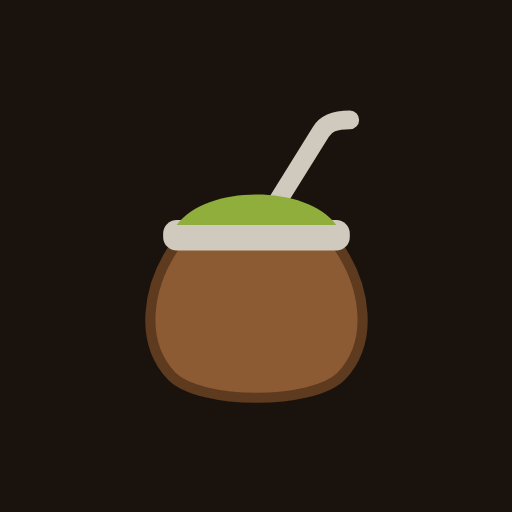
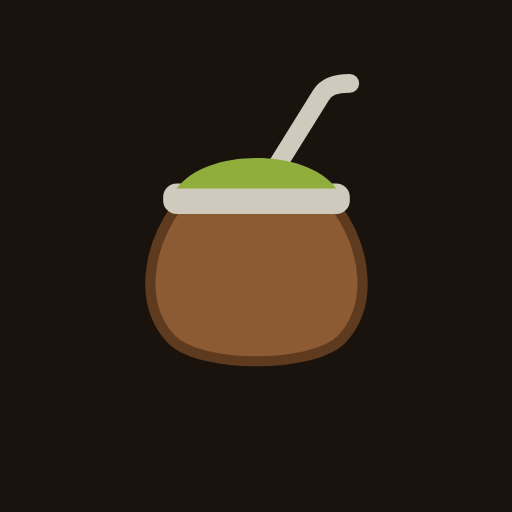
Auditoría, publicación compilada, app instalable, votos en admin y nav de celular
- Nav del celular rediseñado: logo y Cuenta arriba, las 7 secciones en una cápsula
  de partes iguales; la sección actual se ensancha y muestra su nombre.
- Íconos de la app con el cuerpo del mate centrado a la vista.

Changed region(s): [[0.2812, 0.125, 0.7188, 0.8125]]

diff --git a/index.html b/index.html
@@ -30,26 +30,26 @@
 <link rel="preconnect" href="https://fonts.gstatic.com" crossorigin>
 <link rel="preload" as="style" href="https://fonts.googleapis.com/css2?family=DM+Mono:wght@400;500&family=Figtree:wght@400;500;600;700&family=Newsreader:ital,opsz,wght@0,6..72,400..600;1,6..72,400..600&display=swap" onload="this.onload=null;this.rel='stylesheet'">
 <noscript><link rel="stylesheet" href="https://fonts.googleapis.com/css2?family=DM+Mono:wght@400;500&family=Figtree:wght@400;500;600;700&family=Newsreader:ital,opsz,wght@0,6..72,400..600;1,6..72,400..600&display=swap"></noscript>
-<link rel="stylesheet" href="css/estilos.css?v=20261017-49">
-<script defer src="js/datos.js?v=20261017-49"></script>
-<script defer src="js/lecciones.js?v=20261017-49"></script>
-<script defer src="js/utilidades.js?v=20261017-49"></script>
-<script defer src="js/almacen.js?v=20261017-49"></script>
-<script defer src="js/estadisticas.js?v=20261017-49"></script>
-<script defer src="js/config.js?v=20261017-49"></script>
-<script defer src="js/base.js?v=20261017-49"></script>
-<script defer src="js/vistas/comunes.js?v=20261017-49"></script>
-<script defer src="js/vistas/hoy.js?v=20261017-49"></script>
-<script defer src="js/vistas/archivo.js?v=20261017-49"></script>
-<script defer src="js/vistas/aprender.js?v=20261017-49"></script>
-<script defer src="js/vistas/estadisticas.js?v=20261017-49"></script>
-<script defer src="js/vistas/clasificacion.js?v=20261017-49"></script>
-<script defer src="js/vistas/grupos.js?v=20261017-49"></script>
-<script defer src="js/vistas/enviar.js?v=20261017-49"></script>
-<script defer src="js/vistas/cuenta.js?v=20261017-49"></script>
-<script defer src="js/vistas/admin.js?v=20261017-49"></script>
-<script defer src="js/juego.js?v=20261017-49"></script>
-<script defer src="js/main.js?v=20261017-49"></script>
+<link rel="stylesheet" href="css/estilos.css?v=20261017-50">
+<script defer src="js/datos.js?v=20261017-50"></script>
+<script defer src="js/lecciones.js?v=20261017-50"></script>
+<script defer src="js/utilidades.js?v=20261017-50"></script>
+<script defer src="js/almacen.js?v=20261017-50"></script>
+<script defer src="js/estadisticas.js?v=20261017-50"></script>
+<script defer src="js/config.js?v=20261017-50"></script>
+<script defer src="js/base.js?v=20261017-50"></script>
+<script defer src="js/vistas/comunes.js?v=20261017-50"></script>
+<script defer src="js/vistas/hoy.js?v=20261017-50"></script>
+<script defer src="js/vistas/archivo.js?v=20261017-50"></script>
+<script defer src="js/vistas/aprender.js?v=20261017-50"></script>
+<script defer src="js/vistas/estadisticas.js?v=20261017-50"></script>
+<script defer src="js/vistas/clasificacion.js?v=20261017-50"></script>
+<script defer src="js/vistas/grupos.js?v=20261017-50"></script>
+<script defer src="js/vistas/enviar.js?v=20261017-50"></script>
+<script defer src="js/vistas/cuenta.js?v=20261017-50"></script>
+<script defer src="js/vistas/admin.js?v=20261017-50"></script>
+<script defer src="js/juego.js?v=20261017-50"></script>
+<script defer src="js/main.js?v=20261017-50"></script>
 </head>
 <body>
 <div id="splash" class="splash" role="status" aria-label="Cargando"><svg class="ld-mate" viewBox="8 -7 100.4 96" aria-hidden="true"><g class="ld-tm"><g transform="translate(15.48 28.45)"><path class="ld-tm-h" d="M-5.5 -28.4h-2.4a1.4 1.4 0 0 0-1.4 1.4V-15.6"/><rect class="ld-tb" x="-5.5" y="-30.4" width="11" height="30.4" rx="1.8"/><path class="ld-tl" d="M-5.5 -2.2h11"/><rect class="ld-tn" x="-5" y="-32.2" width="10" height="2.2" rx=".6"/><rect class="ld-tn" x="-4.3" y="-33.8" width="8.6" height="1.9" rx=".5"/><rect class="ld-tc" x="-4.8" y="-37.4" width="9.6" height="3.8" rx=".8"/><path class="ld-tl" d="M-2.6 -36.8v2.6M0 -36.8v2.6M2.6 -36.8v2.6"/><path class="ld-tbt" d="M.6 -37.6 4.4 -39.8"/></g></g><g transform="translate(42.2 21.5) scale(.8)"><path class="ld-cal" d="M10.5 18.5C7 23.5 6.2 30 10 34c3.4 3.4 16.6 3.4 20 0 3.8-4 3-10.5-.5-15.5z"/><rect class="ld-vir" x="9" y="15.6" width="22" height="3.6" rx="1.6"/><path class="ld-bom" d="M21.5 15 27.6 5.2c.6-1 1.6-1.4 3.4-1.4"/><path class="ld-yer" d="M10.6 16.2C14 11.4 26 11.4 29.4 16.2z"/><path class="ld-vap" d="M14 11c-1.6-1.7 1.6-3.4 0-5.1"/><path class="ld-vap v2" d="M18 11c-1.6-1.7 1.6-3.4 0-5.1"/></g><g class="ld-agw"><path class="ld-ag" pathLength="1" d="M52.56 13.33c1.5.9 2.4 3.1 2.5 7L55 32"/></g><ellipse class="ld-sp" cx="55" cy="32.2" rx="2.6" ry=".8"/><ellipse class="ld-sp s2" cx="55" cy="32.2" rx="2.6" ry=".8"/></svg></div>

diff --git a/css/estilos.css b/css/estilos.css
@@ -463,21 +463,25 @@ img.av{display:block;background:var(--surface-2)}
 .splash.out.go{background-color:transparent;pointer-events:none;transition:background-color .35s ease}
 .splash.out.go .ld-mate{opacity:0;transition:opacity .25s ease .12s}
 @media (prefers-reduced-motion:reduce){.splash.out.go,.splash.out.go .ld-mate{transition:none}}
-/* En el celular el nav muestra solo íconos; la sección actual también lleva su nombre. Los nombres ocultos siguen para lectores de pantalla */
+/* Nav en el celular: arriba el logo y Cuenta (sola a la derecha); abajo las 7 secciones en una cápsula de partes iguales.
+   La sección actual se ensancha y muestra su nombre; las demás quedan con el ícono. Los nombres plegados siguen para lectores de pantalla */
 @media (max-width:560px){
-  .bar .wrap{padding-left:max(8px,env(safe-area-inset-left,0px));padding-right:max(8px,env(safe-area-inset-right,0px))}
-  nav{gap:0}.nav-mid{gap:0}
-  .tab{padding:9px 7px;font-size:14px;gap:0}
-  /* el nombre se despliega y la burbuja aparece con un pop; los demás íconos se corren solos. Los nombres plegados siguen para lectores de pantalla */
-  /* el nombre anterior se pliega rápido y el nuevo se despliega apenas después: nunca están los dos abiertos, así Cuenta no se corre */
-  .tab span{display:inline-block;max-width:0;opacity:0;overflow:hidden;margin-left:0;transition:max-width .22s cubic-bezier(.4,0,.2,1),opacity .15s ease,margin-left .22s cubic-bezier(.4,0,.2,1)}
-  .tab[aria-current="page"] span{max-width:100px;opacity:1;margin-left:6px;transition:max-width .45s cubic-bezier(.3,.7,.3,1) .12s,opacity .3s ease .2s,margin-left .45s cubic-bezier(.3,.7,.3,1) .12s}
-  .tab[aria-current="page"]{animation:nav-pop .5s cubic-bezier(.3,1.2,.5,1)}
+  .bar .wrap{position:relative;align-items:stretch;gap:8px;padding:8px max(10px,env(safe-area-inset-right,0px)) 10px max(10px,env(safe-area-inset-left,0px))}
+  .brand{align-self:flex-start;gap:9px;padding:4px 2px}
+  .brand .mate{width:30px;height:30px}
+  .brand .nm{font-size:19px}
+  nav{display:block;width:100%;overflow:visible}
+  .nav-mid{display:flex;width:100%;gap:0;padding:4px;border:1px solid var(--line);border-radius:999px;background:var(--surface)}
   .sep{display:none}
-  nav>.tab[data-v="cuenta"]{margin-left:4px}
+  .tab{gap:0;justify-content:center;padding:9px 0;font-size:14px}
+  .nav-mid .tab{flex:1 1 0;min-width:0;transition:flex-grow .45s cubic-bezier(.3,.7,.3,1),color .22s ease,background-color .22s ease}
+  .nav-mid .tab[aria-current="page"]{flex-grow:2.6}
+  .tab span{display:inline-block;max-width:0;opacity:0;overflow:hidden;margin-left:0;transition:max-width .22s cubic-bezier(.4,0,.2,1),opacity .15s ease,margin-left .22s cubic-bezier(.4,0,.2,1)}
+  .tab[aria-current="page"] span{max-width:100px;opacity:1;margin-left:6px;transition:max-width .45s cubic-bezier(.3,.7,.3,1) .1s,opacity .3s ease .18s,margin-left .45s cubic-bezier(.3,.7,.3,1) .1s}
+  /* Cuenta: arriba a la derecha, a la altura del logo; muestra su nombre solo cuando estás ahí */
+  nav>.tab[data-v="cuenta"]{position:absolute;top:8px;right:max(10px,env(safe-area-inset-right,0px));margin:0;padding:8px 10px}
 }
-@keyframes nav-pop{from{transform:scale(.92)}}
-@media (prefers-reduced-motion:reduce){.tab span,.tab[aria-current="page"] span{transition:none}.tab[aria-current="page"]{animation:none}}
+@media (prefers-reduced-motion:reduce){.tab span,.tab[aria-current="page"] span,.nav-mid .tab{transition:none}}
 .arow .st{min-width:96px;text-align:center}
 /* Votos de cada pista en el panel de admin: circulitos como las letras, con el pulgar y el contador */
 .avotes{display:inline-flex;align-items:center;gap:10px;flex:none}
